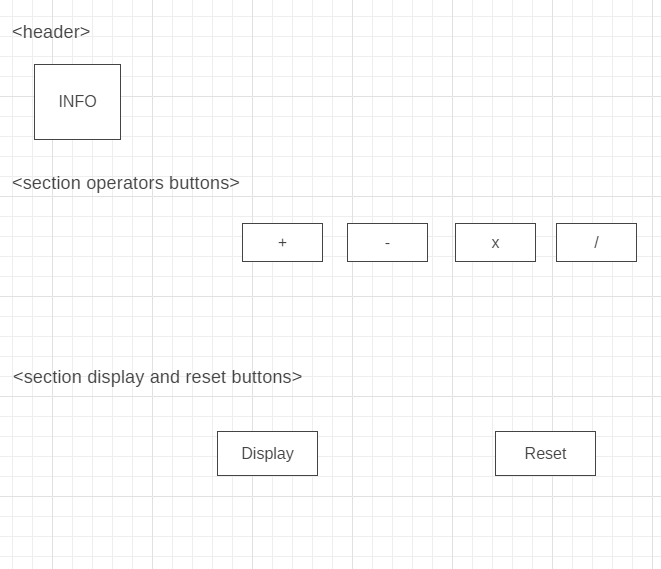
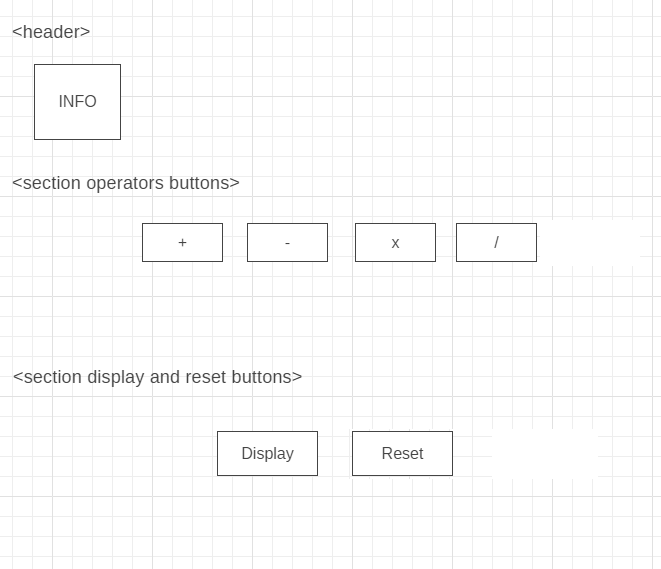
edit css propertis and changed wireframe

diff --git a/index.html b/index.html
@@ -6,7 +6,7 @@
   <title>prompt, alert, calculate</title>
 
   <!-- load the styles -->
-  <link rel="stylesheet" href="style.css">
+  <link rel="stylesheet" href="style.css" />
 
   <!-- load the shared data -->
   <script src="./scripts/shared-variables.js"></script>
@@ -27,21 +27,20 @@
 </head>
 
 <body>
-
-
+  <main>
+  <div>
+    <button id="information" onclick="instructionsHandler()">Info</button>
+  </div>
+  <section class="operators-buttons">
+    <button onclick="addHandler()">+</button>
+    <button onclick="divideHandler()">-</button>
+    <button onclick="multiplyHandler()">x</button>
+    <button onclick="subtractHandler()">/</button>
+  </section>
+  <section class="display-reset">
+      <button onclick="displayLastResultHandler()">Display</button>
+      <button onclick="resetLastResultHandler()">Reset</button>
+  </section>
+</main>
 </body>
-<div id="info">
-  <button id="information" onclick="instructionsHandler()">Info</button>
-</div>
-<section class="operators-buttons">
-  <button onclick="addHandler()">+</button>
-  <button onclick="divideHandler()">-</button>
-  <button onclick="multiplyHandler()">x</button>
-  <button onclick="subtractHandler()">/</button>
-</section>
-<section class="display-reset">
-    <button onclick="displayLastResultHandler()">Diplay</button>
-    <button onclick="resetLastResultHandler()">Reset</button>
-</section>
-
 </html>

diff --git a/style.css b/style.css
@@ -1,0 +1,40 @@
+ /*center the operators buttons*/
+body{
+    margin: 0;
+    padding: 0;
+}
+/*button info*/
+#information{
+    margin-top: 50px;
+    margin-left: 10%;
+    font-size: 20px;
+    padding: 0 20px 0 20px;
+}
+/*operators buttons*/
+.operators-buttons {
+    display: flex;
+    justify-content: flex-end;
+    margin-right: 500px;
+}
+.operators-buttons button {
+    /*justify-content: center;*/
+    font-size: 20px;
+    margin: 30px 20px 30px 20px;
+    padding: 0 20px 0 20px;
+}
+.operators-buttons button:hover{
+    background-color: lightgrey;
+}
+/* display and reset buttons*/
+.display-reset {
+    display: flex;
+    justify-content: center;
+}
+.display-reset button{
+    font-size: 20px;
+    margin-top: 50px;
+    margin-left: 10px;
+}
+.display-reset button:hover{
+    background-color: lightgrey;
+} 
